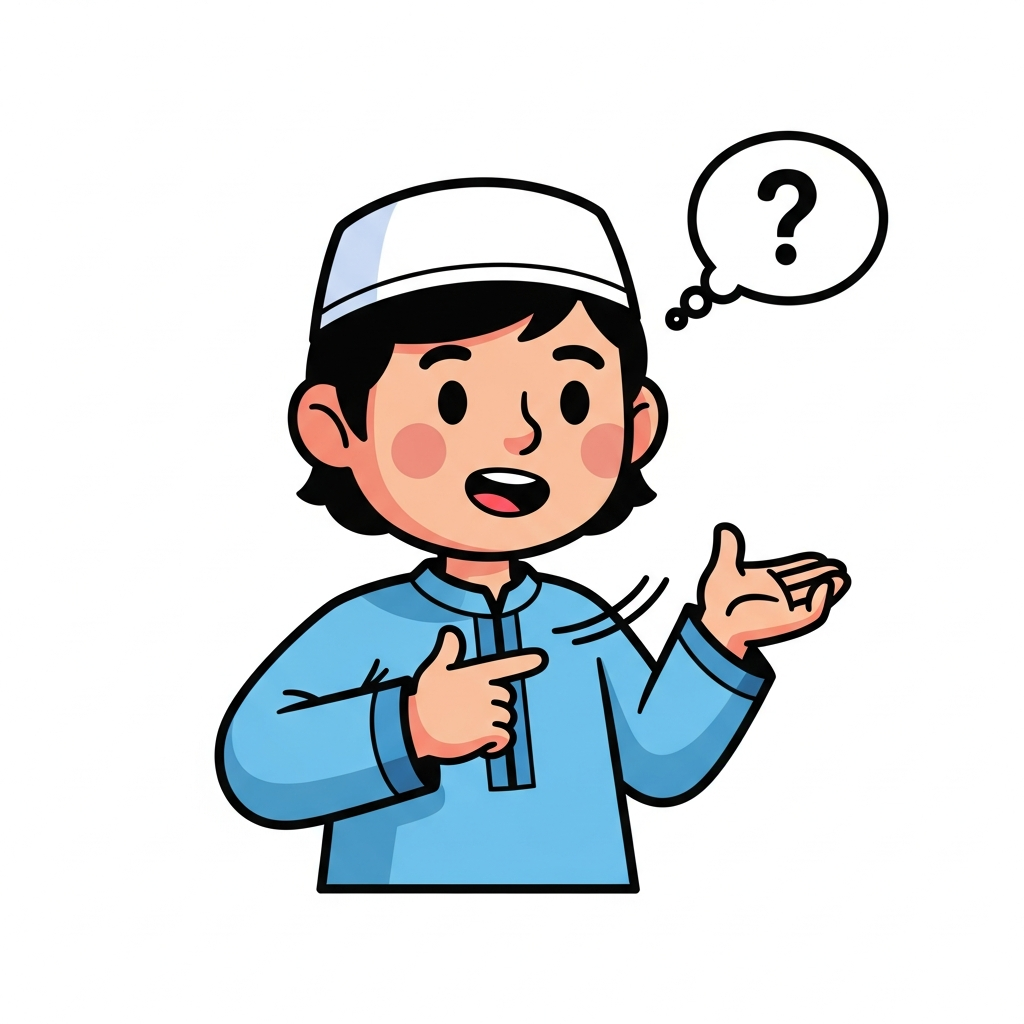
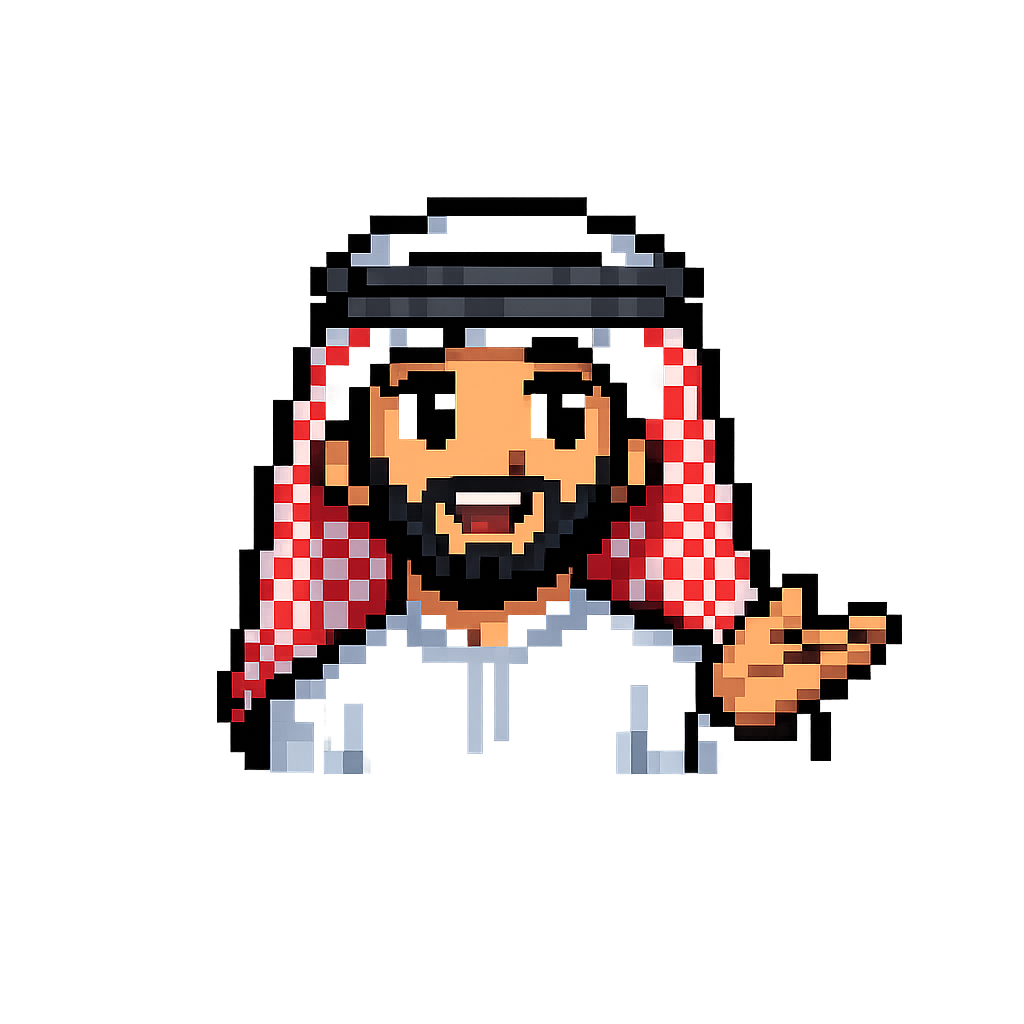
commit

Changed region(s): [[0.1875, 0.125, 0.9062, 0.875]]

diff --git a/server/replit_integrations/chat/pdfService.ts b/server/replit_integrations/chat/pdfService.ts
@@ -97,7 +97,15 @@ export async function extractPdfText(pdfUrl: string): Promise<string> {
     try {
         // Fetch the PDF
         console.log("⬇ Fetching PDF from URL...");
-        const response = await fetch(pdfUrl);
+        const response = await fetch(pdfUrl, {
+            headers: {
+                'User-Agent': 'Mozilla/5.0 (Windows NT 10.0; Win64; x64) AppleWebKit/537.36 (KHTML, like Gecko) Chrome/120.0.0.0 Safari/537.36',
+                'Accept': 'application/pdf,application/octet-stream,*/*',
+                'Accept-Language': 'en-US,en;q=0.9',
+                'Referer': 'https://www.bnm.gov.my/',
+                'Cache-Control': 'no-cache',
+            }
+        });
         if (!response.ok) {
             console.error("❌ PDF fetch failed:", response.statusText);
             throw new Error(`Failed to fetch PDF: ${response.statusText}`);
